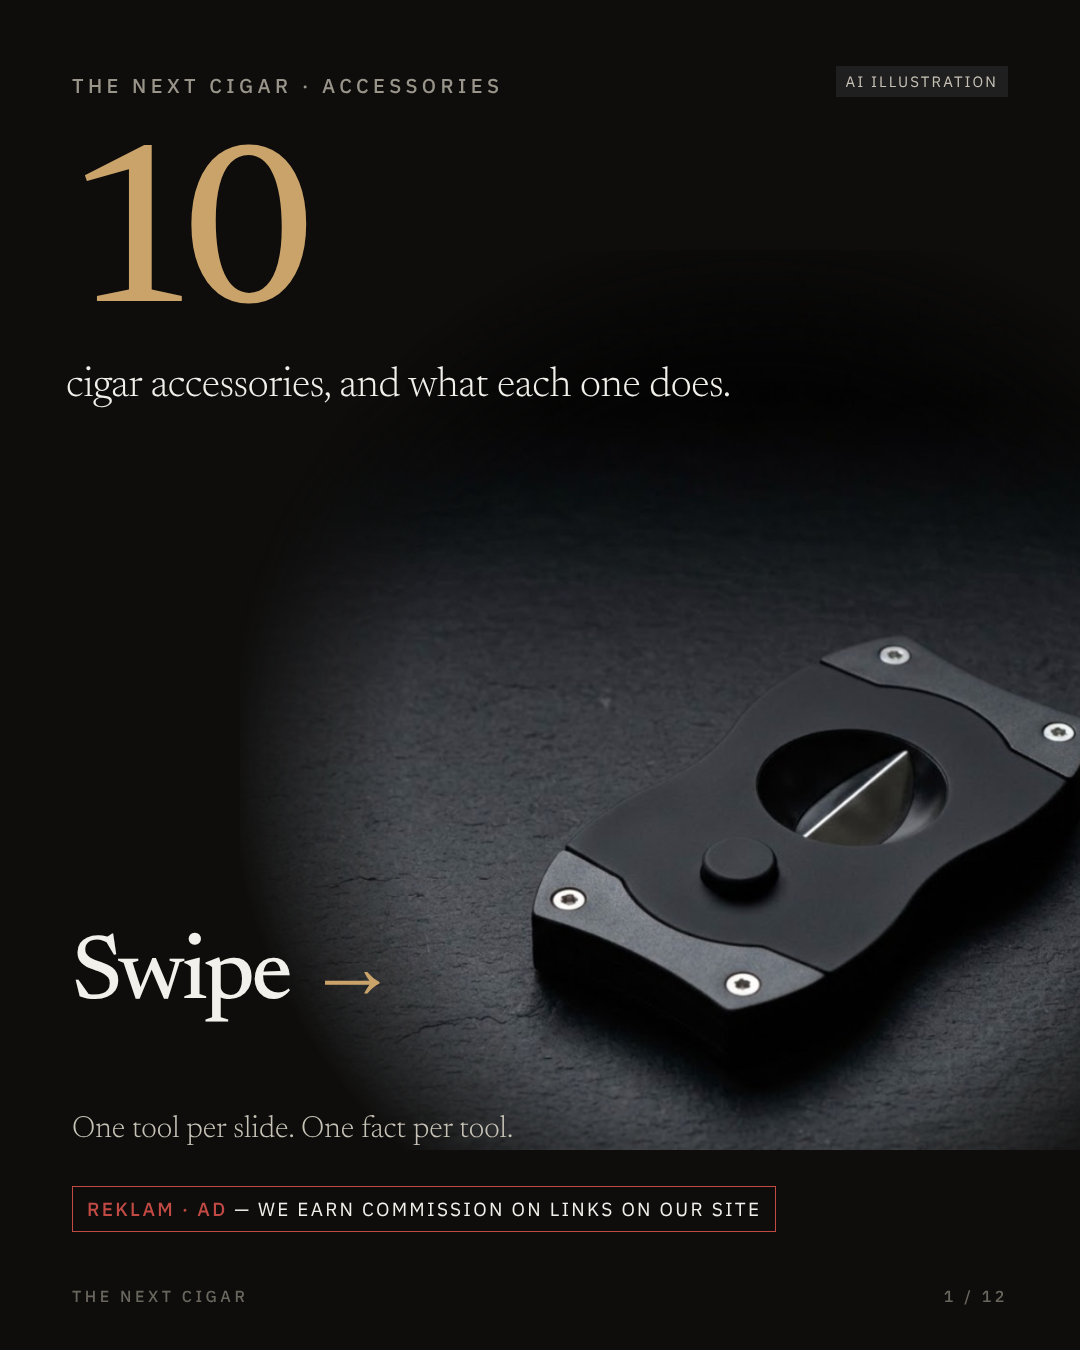
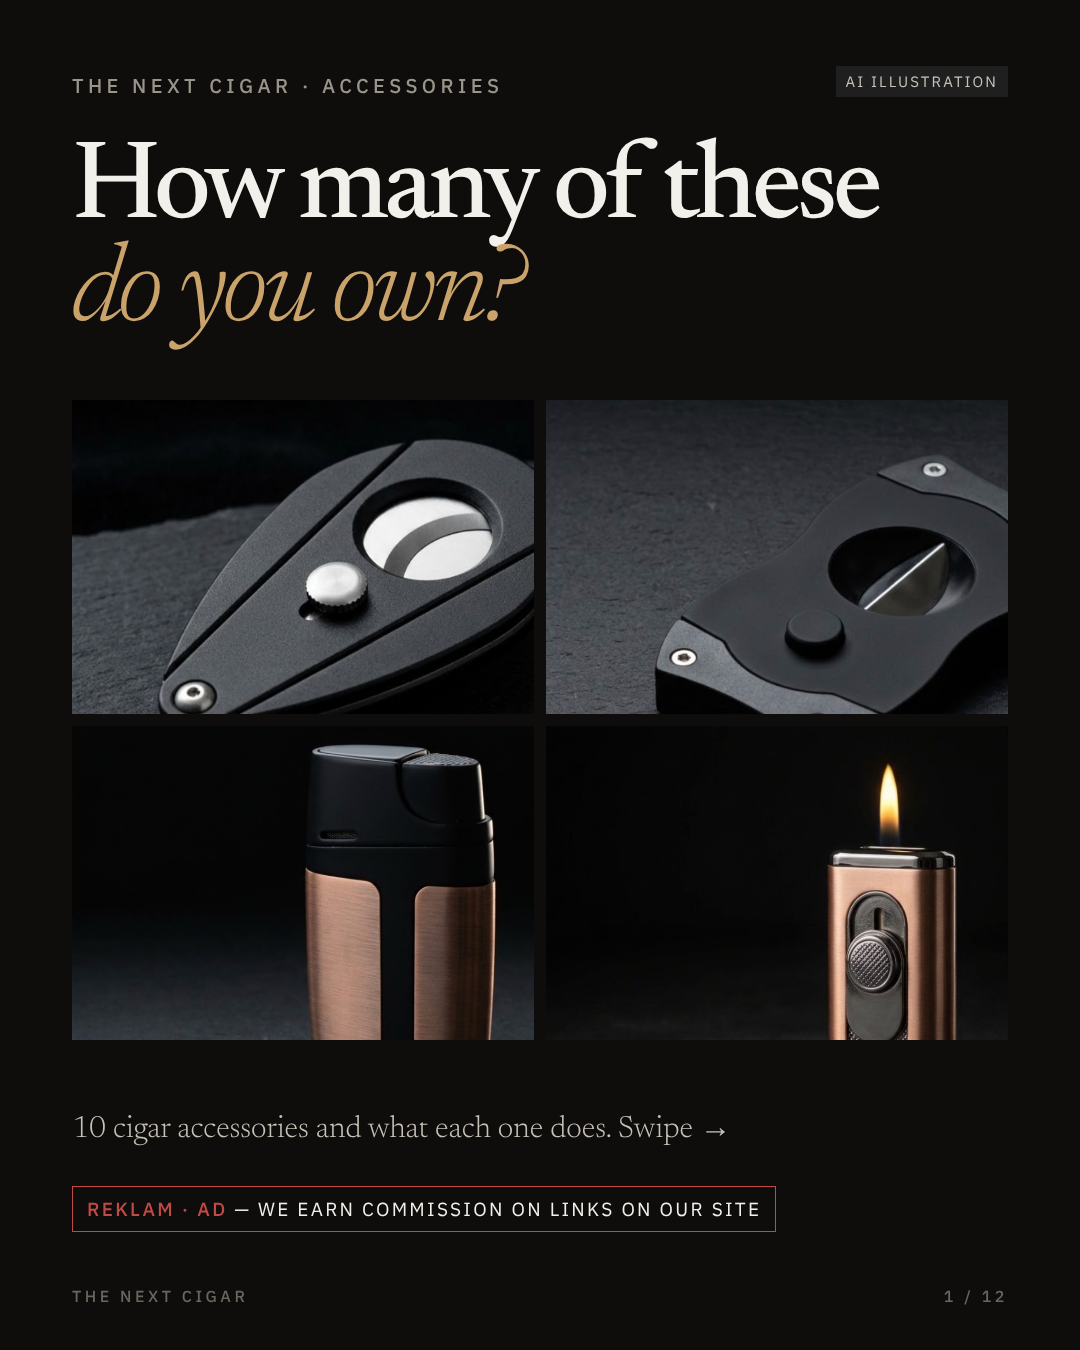
Carousel 13: hook cover
Claude-Session: https://claude.ai/code/session_01NDc9TrKsSQw4dbaGwkoFWp

diff --git a/docs/social/carousels/13-accessories-explained/source.html b/docs/social/carousels/13-accessories-explained/source.html
@@ -18,9 +18,12 @@ p.b{position:absolute;left:72px;right:300px;bottom:118px;margin:0;font-size:31px
 .ad{position:absolute;left:72px;bottom:118px;font-family:'IBM Plex Sans';font-size:19px;letter-spacing:.12em;text-transform:uppercase;color:#F2F0EA;border:1px solid #C24A44;padding:10px 14px}
 .ad b{color:#C24A44;font-weight:500}
 </style></head><body>
-<div class="s"><div class="ph" style="background-image:url(img/v.jpg)"></div><div class="n lab">The Next Cigar · Accessories</div><span class="ai">AI illustration</span>
-<div class="big">10<small>cigar accessories, and what each one does.</small></div>
-<h2 style="bottom:330px">Swipe <i>→</i></h2><p class="b" style="bottom:200px">One tool per slide. One fact per tool.</p>
+<div class="s"><div class="n lab">The Next Cigar · Accessories</div><span class="ai">AI illustration</span>
+<div style="position:absolute;left:72px;top:140px;font-size:112px;font-weight:500;letter-spacing:-.045em;line-height:.92;color:#F2F0EA">How many of these<br><i style="font-weight:300;color:#C9A36A">do you own?</i></div>
+<div style="position:absolute;left:72px;right:72px;top:400px;height:640px;display:grid;grid-template-columns:1fr 1fr;gap:12px">
+<div style="background:url(img/straight.jpg) center 62%/150%"></div><div style="background:url(img/v.jpg) center 64%/150%"></div>
+<div style="background:url(img/punch.jpg) 70% 48%/115%"></div><div style="background:url(img/soft.jpg) 70% 52%/115%"></div></div>
+<p class="b" style="bottom:200px;right:72px">10 cigar accessories and what each one does. Swipe →</p>
 <div class="ad"><b>Reklam · Ad</b> — we earn commission on links on our site</div>
 <div class="ft lab"><span>The Next Cigar</span><span>1 / 12</span></div></div>
 <div class="s"><div class="ph" style="background-image:url(img/straight.jpg)"></div><div class="n lab">01 / 10 · Cutters</div><span class="ai">AI illustration</span>

diff --git a/docs/social/carousels/13-accessories-explained/caption.md b/docs/social/carousels/13-accessories-explained/caption.md
@@ -38,3 +38,5 @@ Full guides: link in bio. The Next Cigar is independent and published from Swede
 v1 checked 6 Nov (6 fixes). v2 independent check 6 Nov 2026: fixed "some torch lighters" → ELX; butane at sea-level pressure; hygrometer error "near 75%"; travel case wording; "Tested, photographed" → "Researched and sourced"; slides 2–7 reworded from cutting/lighting instructions to tool descriptions (KOVFS risk). Double-checked on 6 Nov 2026: ready to post.
 
 v3 (6 Nov): five images regenerated from maker reference photos after Cris flagged inaccurate products; punch slide text now 'the punch built into this lighter, the Xikar ELX.'
+
+v4 (6 Nov): cover hook "How many of these do you own?" with a 2x2 grid of four product images; Reklam label kept.
